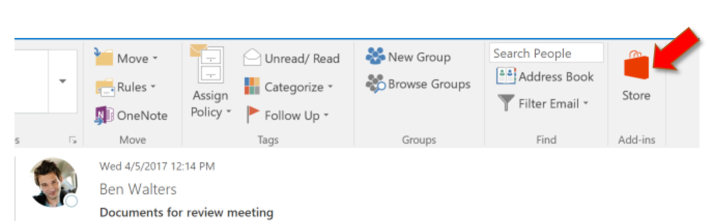
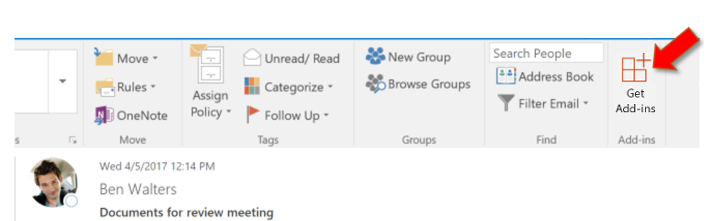
Update sideloading article (#426)

Changed region(s): [[0.8664, 0.2172, 0.9283, 0.3801], [0.8664, 0.4072, 0.9283, 0.5158]]

diff --git a/docs/add-ins/sideload-outlook-add-ins-for-testing.md b/docs/add-ins/sideload-outlook-add-ins-for-testing.md
@@ -4,7 +4,7 @@ description: Use sideloading to install an Outlook add-in for testing without ha
 author: jasonjoh
 ms.topic: article
 ms.technology: office-add-ins
-ms.date: 01/24/2018
+ms.date: 11/20/2018
 ms.author: jasonjoh
 ---
 
@@ -15,9 +15,44 @@ You can use sideloading to install an Outlook add-in for testing without having 
 
 ## Sideload an add-in in Outlook in Office 365
 
+The process for sideloading an add-in in Outlook in Office 365 depends upon whether you are using the new Outlook on the web or classic Outlook on the web.
+
+- If your mailbox toolbar looks like the following image, see [Sideload an add-in in the new Outlook on the web](#sideload-an-add-in-in-the-new-outlook-on-the-web).
+
+    ![partial screenshot of the new Outlook on the web toolbar](images/outlook-on-the-web-new-toolbar.png)
+
+- If your mailbox toolbar looks like the following image, see [Sideload an add-in in classic Outlook on the web](#sideload-an-add-in-in-classic-outlook-on-the-web).
+
+    ![partial screenshot of the classic Outlook on the web toolbar](images/outlook-on-the-web-classic-toolbar.png)
+
+> [!NOTE]
+> If your organization has included its logo in the mailbox toolbar, you might see something slightly different than shown in the preceding images.
+
+### Sideload an add-in in the new Outlook on the web
+
 1. Go to [Outlook in Office 365](https://outlook.office.com).
 
-1. Choose the gear icon in the top-right section and select **Manage add-ins**.
+1. In Outlook on the web, create a new message.   
+
+1. Choose **...** from the bottom of the new message and then select **Get Add-ins** from the menu that appears.
+
+    ![Message compose window in the new Outlook on the web with Get Add-ins option highlighted](images/outlook-on-the-web-new-get-add-ins.png)
+
+1. In the **Add-Ins for Outlook** dialog box, select **My add-ins**.
+
+    ![Add-Ins for Outlook dialog box in the new Outlook on the web with My add-ins selected](images/outlook-on-the-web-new-my-add-ins.png)
+
+1. Locate the **Custom add-ins** section at the bottom of the dialog box. Select the **Add a custom add-in** link, and then select **Add from file**.
+
+    ![Manage add-ins screenshot pointing to Add from a file option](images/outlook-sideload-desktop-add-from-file.PNG)
+
+1. Locate the manifest file for your custom add-in and install it. Accept all prompts during the installation.
+
+### Sideload an add-in in classic Outlook on the web
+
+1. Go to [Outlook in Office 365](https://outlook.office.com).
+
+1. Choose the gear icon in the top-right section of the toolbar and select **Manage add-ins**.
 
     ![Outlook on the web screenshot pointing to Manage add-ins option](images/outlook-sideload-web-manage-integrations.PNG)
 
@@ -25,7 +60,7 @@ You can use sideloading to install an Outlook add-in for testing without having 
 
     ![Outlook on the web store dialog with My add-ins selected](images/outlook-sideload-store-select-add-ins.png)
 
-1. Locate the **Custom add-ins** section at the bottom of the dialog. Select the **Add a custom add-in** link, and then select **Add from file**.
+1. Locate the **Custom add-ins** section at the bottom of the dialog box. Select the **Add a custom add-in** link, and then select **Add from file**.
 
     ![Manage add-ins screenshot pointing to Add from a file option](images/outlook-sideload-desktop-add-from-file.PNG)
 
@@ -35,11 +70,14 @@ You can use sideloading to install an Outlook add-in for testing without having 
 
 1. Open Outlook 2013 or later for Windows, or Outlook 2016 or later for Mac.
 
-1. Select the **Store** button on the ribbon.
+1. Select the **Get Add-ins** button on the ribbon.
 
     ![Outlook 2016 ribbon pointing to Store button](images/outlook-sideload-desktop-store.PNG)
 
-1. On the **Store** page, select **Add-Ins**, and then select **My add-ins**.
+    > [!NOTE]
+    > If you don't see the **Get Add-ins** button in your version of Outlook, select the **Store** button on the ribbon instead.
+
+1. Select **Add-Ins**, and then select **My add-ins**.
 
     ![Outlook 2016 store dialog with My add-ins selected](images/outlook-sideload-store-select-add-ins.png)
 
